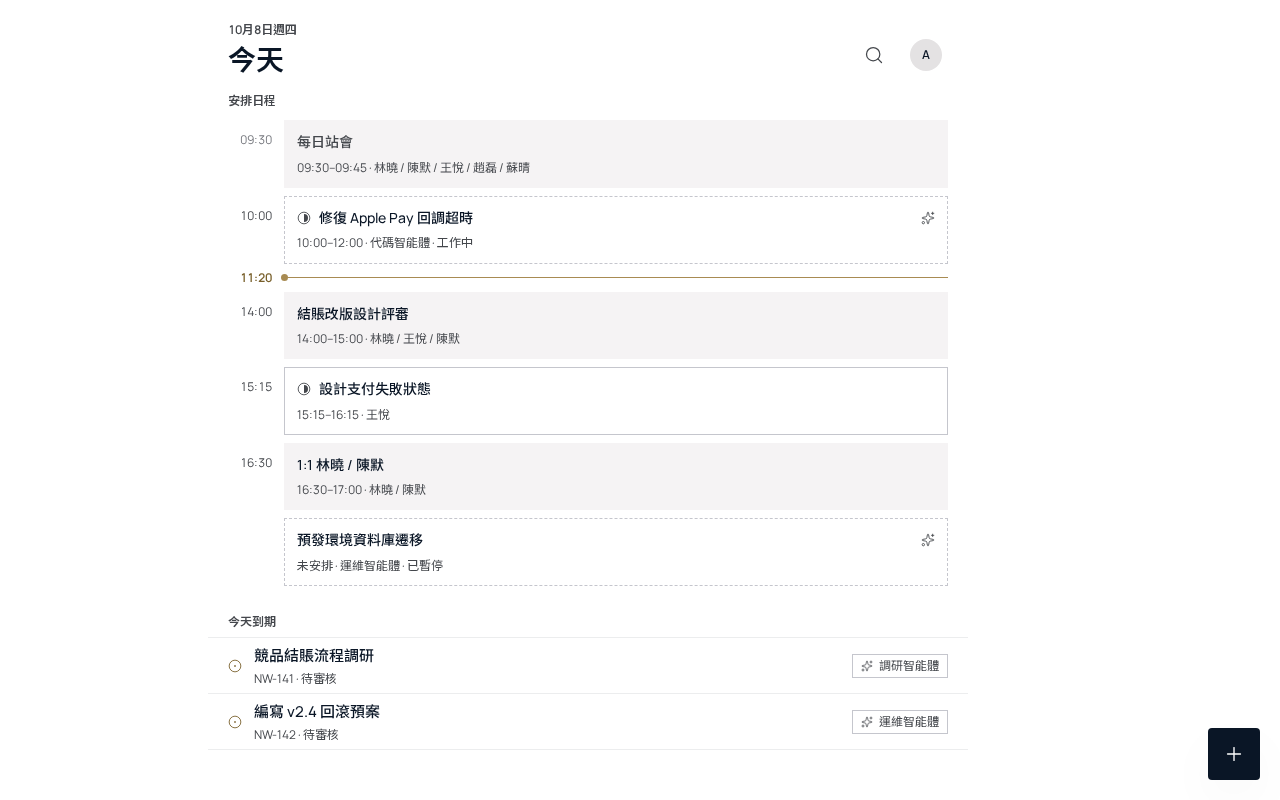
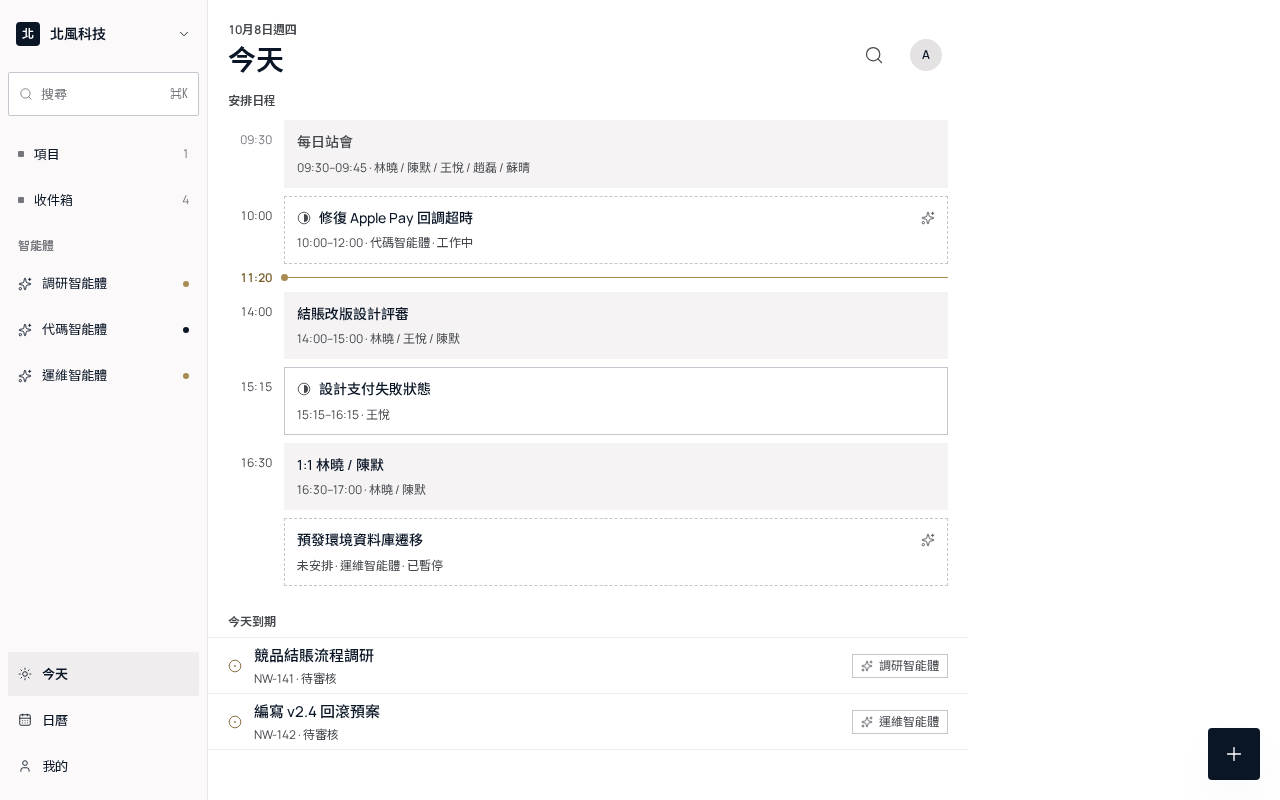
test: correct Today desktop sidebar capture readiness

diff --git a/docs/milestones/10-ui-parity.md b/docs/milestones/10-ui-parity.md
@@ -41,7 +41,7 @@ app. No production database will be seeded for this work.
 | --- | --- | --- |
 | 0 — offline prototype and capture tooling | Accepted locally; strict checks before push pending | 38 native zh/en reference captures; independent full navigation rerun passed with zero external requests or browser errors. [Matrix and provenance](../ui/reference/README.md). |
 | 1 — shell | Visuals accepted at `dfcbefb`; committed-baseline and behavioral gates pending | Six native element captures personally inspected by the root agent; reference/app comparisons below. Phone tabs/FAB from lines 376–410, desktop sidebar from 940–953; existing session/cache guards retained. |
-| 2 — Today and Northwind seed | Visuals accepted at `e1c2d1a`; behavioral gates pending | Four native captures inspected; independent comparison passed. Source 47–114, existing real schedule/tasks/run bindings. |
+| 2 — Today and Northwind seed | Phone accepted at `e1c2d1a`, corrected desktop at `e5165f9`; behavioral gates pending | Four native captures inspected; independent comparison passed. Source 47–114, existing real schedule/tasks/run bindings. |
 | 3 — Projects | Pending | |
 | 4 — task detail and review | Pending | |
 | 5 — Inbox | Pending | |
@@ -141,7 +141,13 @@ uses the committed baselines and does not update them in CI.
 ## Today visual checkpoint
 
 The root agent inspected all four `e1c2d1a` captures after an independent
-comparison passed. The source's date/header, timed blocks, dashed agent work,
+comparison passed. Production verification at `e5165f9` revealed that the
+earlier desktop images had captured an empty Sidebar before it loaded. Root
+inspected and intentionally replaced those two desktop images; all reported
+differences are inside the formerly blank left 208 px. The main content has
+zero reported differences under the unchanged comparison settings. Both phone
+baselines pass unchanged. Fresh full comparisons remain required.
+The source's date/header, timed blocks, dashed agent work,
 gold now-line and compact due rows bind actual Northwind data. Actual meeting
 durations, attendees, authenticated-user initials, unread count and paused work
 remain truthful. No planned-step total or progress percentage is invented.
